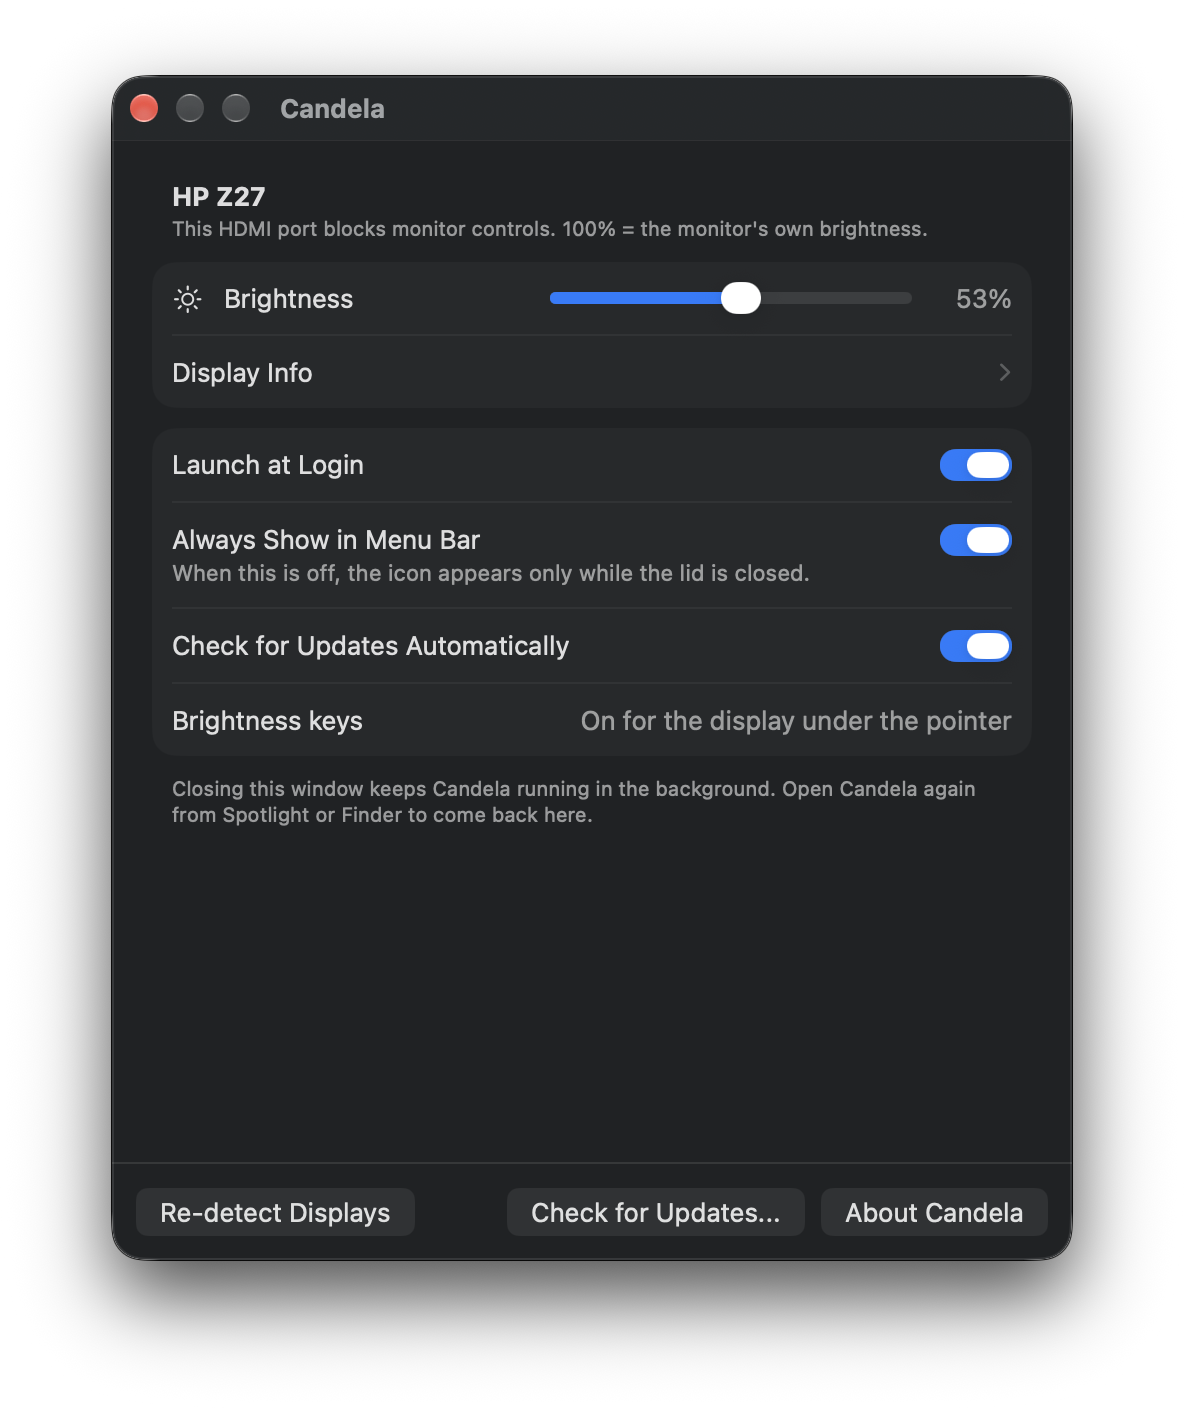
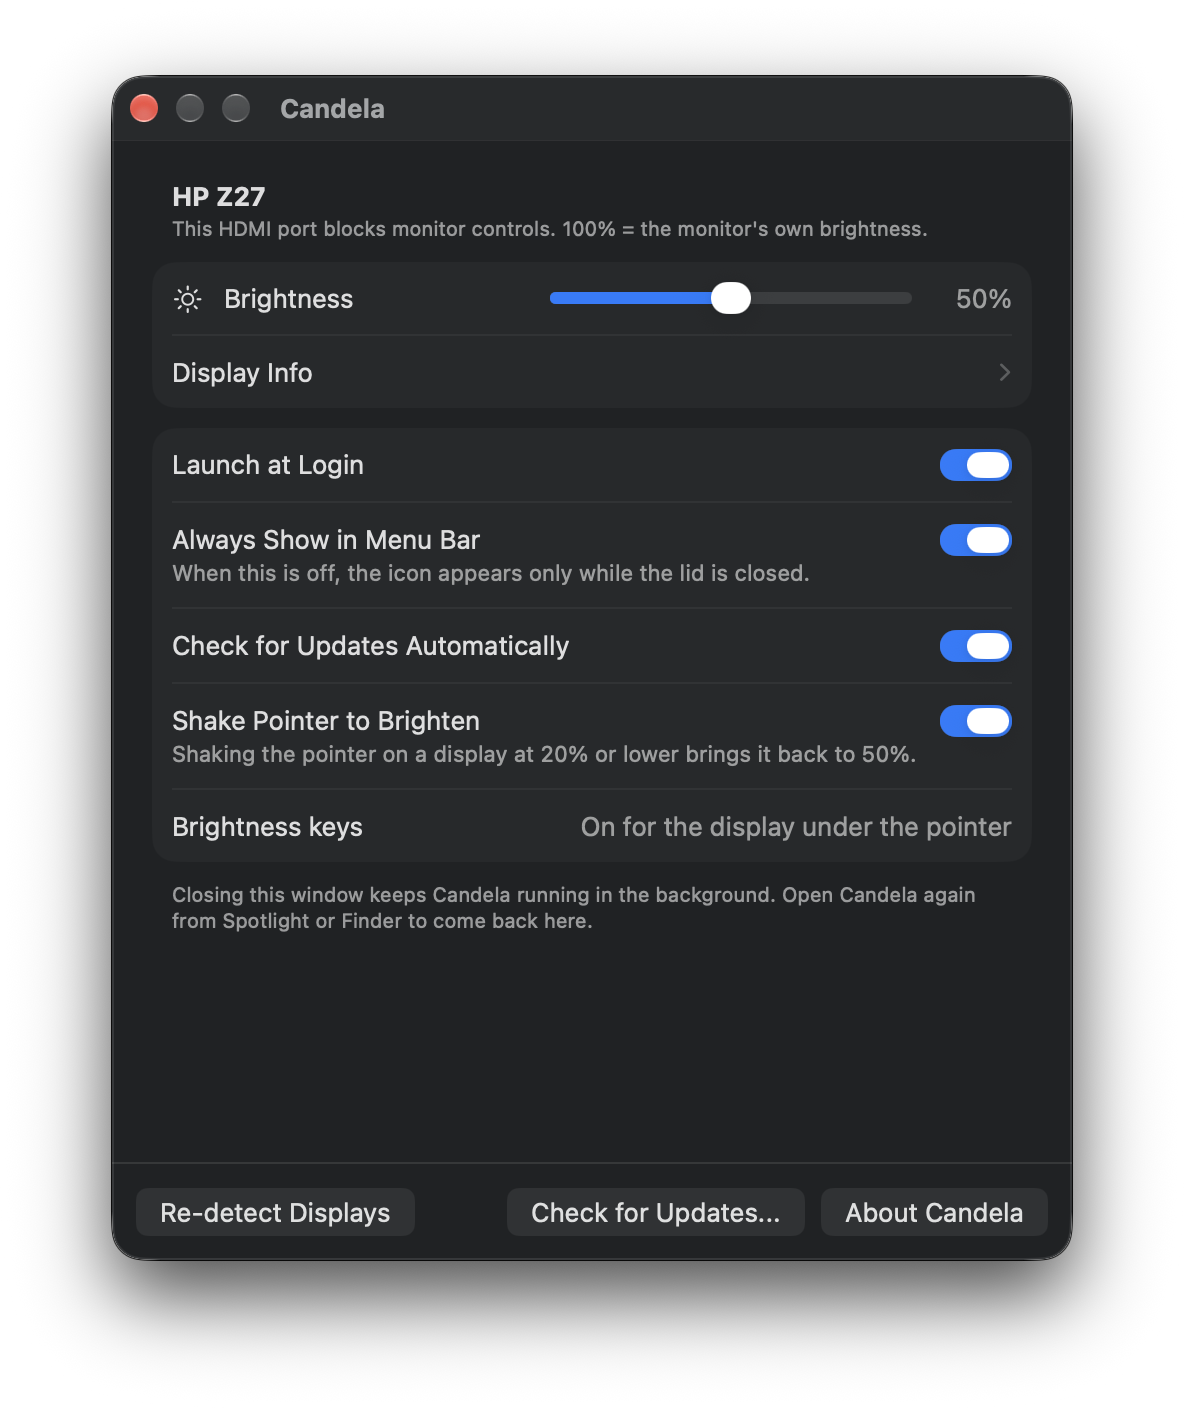
docs: update the window screenshot for Shake Pointer to Brighten
Refs #16

Changed region(s): [[0.125, 0.5, 0.875, 0.5938], [0.125, 0.625, 0.8125, 0.6562], [0.5938, 0.1875, 0.6562, 0.2188]]

diff --git a/README.md b/README.md
@@ -10,7 +10,7 @@
 </p>
 
 <p align="center">
-  <img src="docs/images/window.png" width="460" alt="The Candela window: brightness for an HP Z27 on an HDMI port, Launch at Login, Always Show in Menu Bar, Check for Updates Automatically and the brightness keys, with Check for Updates in the footer">
+  <img src="docs/images/window.png" width="460" alt="The Candela window: brightness for an HP Z27 on an HDMI port, Launch at Login, Always Show in Menu Bar, Check for Updates Automatically, Shake Pointer to Brighten and the brightness keys, with Check for Updates in the footer">
 </p>
 
 ## Features
